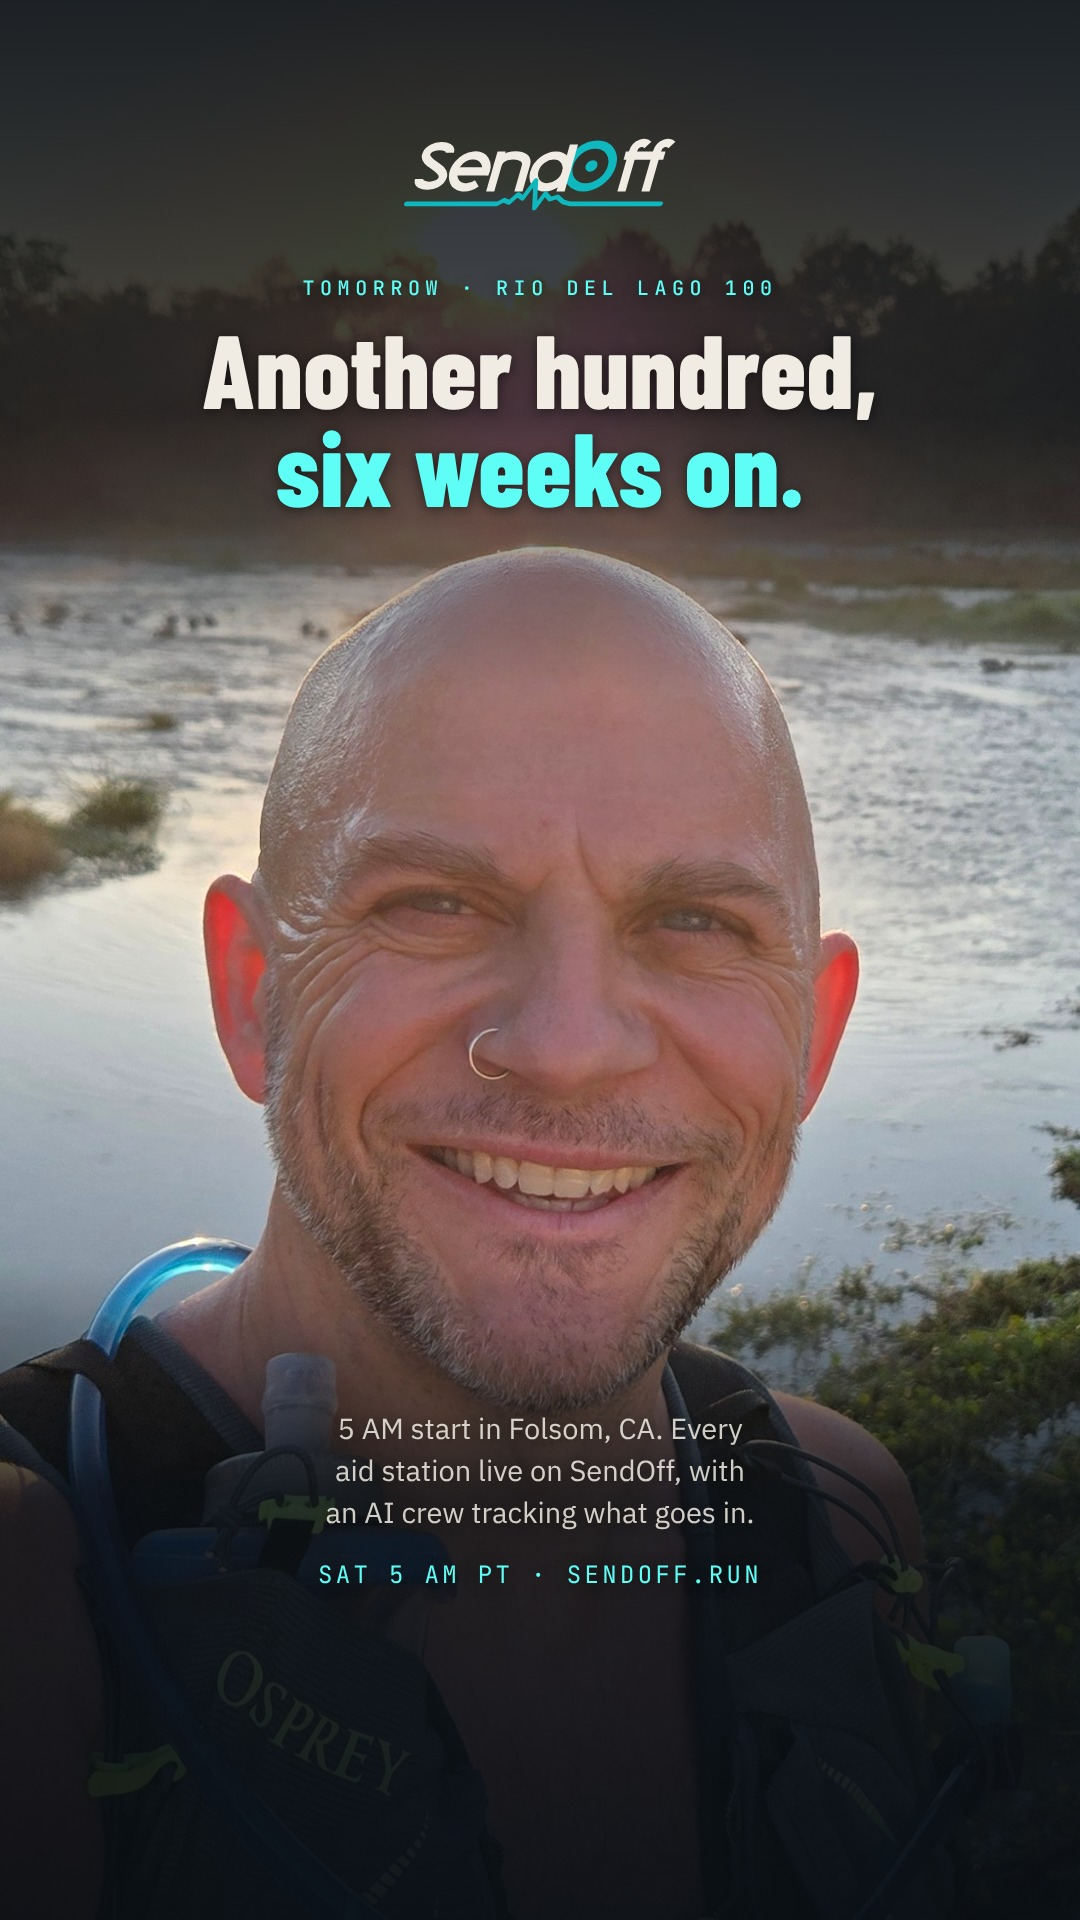
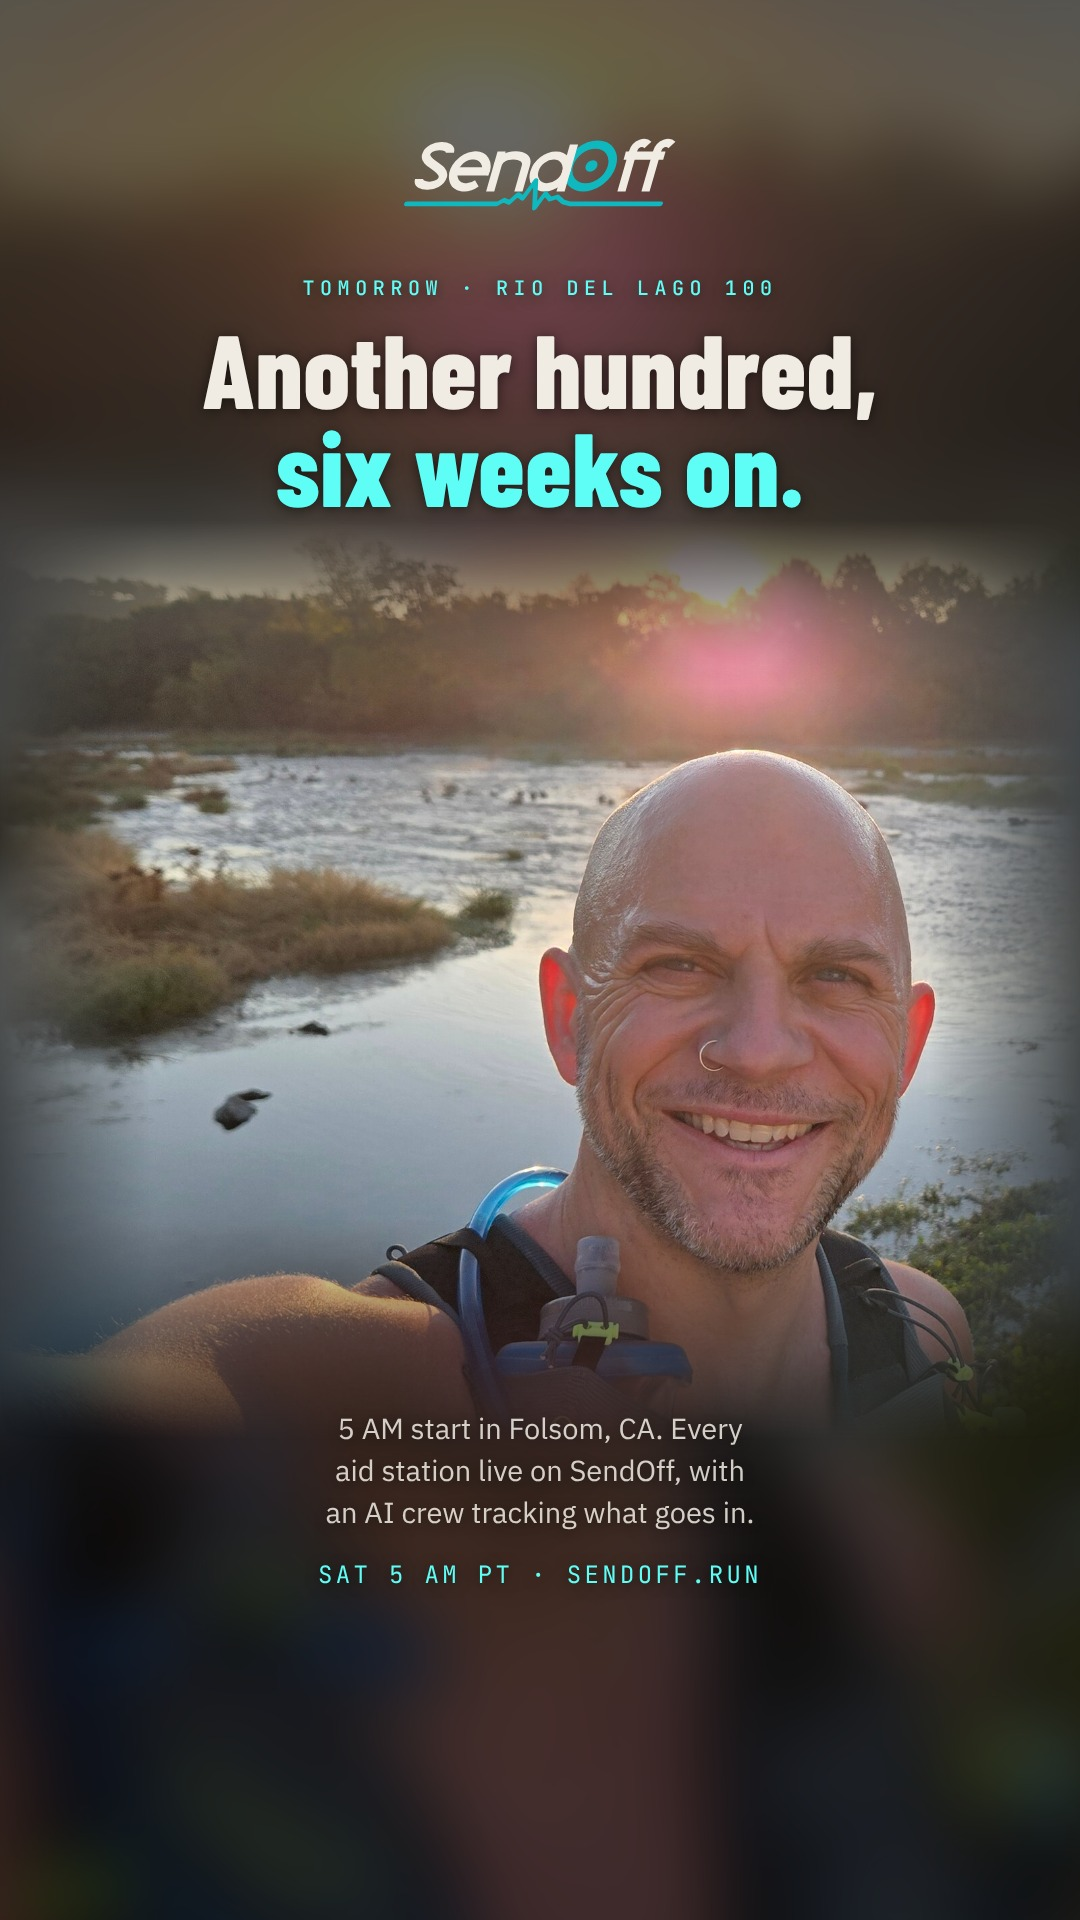
Rio del Lago story: the photo smaller, faded into a blurred copy of itself
The face filled the story. A wider cut of the selfie now sits in the
middle, feathered on every side into a blurred, darkened copy that fills
the rest, with the headline above and the details below.

Claude-Session: https://claude.ai/code/session_01EWRjYYN5ZDLhgR1pme87tD

diff --git a/brand/social/stories.html b/brand/social/stories.html
@@ -226,21 +226,30 @@
   <div class="phone"><img src="shots/ghost-train-live-map.png" alt="" style="object-fit:cover;object-position:50% 100%;aspect-ratio:1170/2400"></div>
 </section>
 
-<section class="slide story photo-story grad glow" id="rio-del-lago">
-  <!-- The whole story is the photo, cut 9:16 from the selfie. The face sits
-       low in it, so the headline goes up over the sky and the details over
-       the vest, clear of the reply bar. -->
-  <img class="bg" src="photos/rio-del-lago-runner-story.jpg" alt="" style="top:0;height:1920px;-webkit-mask-image:none;mask-image:none">
-  <div class="shade-top" style="position:absolute;left:0;right:0;top:0;height:36%;z-index:1;background:linear-gradient(180deg,rgba(10,15,20,.9) 0%,rgba(10,15,20,.74) 60%,rgba(10,15,20,0) 100%)"></div>
-  <div class="shade" style="height:34%;background:linear-gradient(180deg,rgba(10,15,20,0) 0%,rgba(10,15,20,.82) 35%,rgba(10,15,20,.95) 100%)"></div>
+<section class="slide story grad glow" id="rio-del-lago">
+  <!-- The selfie set smaller in the middle, a wider cut with the river round
+       it, feathered at every edge into a blurred, darkened copy of itself
+       that fills the rest. The headline sits above it and the details below,
+       clear of the reply bar. -->
+  <style>
+    #rio-del-lago .fill{position:absolute;inset:-80px;width:calc(100% + 160px);height:calc(100% + 160px);
+      object-fit:cover;filter:blur(36px) brightness(.4) saturate(1.1);z-index:0}
+    #rio-del-lago .pic{position:absolute;left:0;top:520px;width:1080px;height:920px;object-fit:cover;object-position:62% 42%;z-index:1;
+      -webkit-mask-image:linear-gradient(180deg,transparent 0,#000 18%,#000 76%,transparent 100%),linear-gradient(90deg,transparent 0,#000 14%,#000 86%,transparent 100%);
+      -webkit-mask-composite:source-in;
+      mask-image:linear-gradient(180deg,transparent 0,#000 18%,#000 76%,transparent 100%),linear-gradient(90deg,transparent 0,#000 14%,#000 86%,transparent 100%);
+      mask-composite:intersect}
+  </style>
+  <img class="fill" src="photos/rio-del-lago-runner-story.jpg" alt="">
+  <img class="pic" src="photos/rio-del-lago-runner-wide.jpg" alt="">
   <div class="top" style="position:relative;z-index:2;text-shadow:0 2px 14px rgba(0,0,0,.55)">
     <div class="wm"></div>
     <p class="kick" style="color:var(--beam);font-weight:500">Tomorrow · Rio del Lago 100</p>
     <h1 style="font-size:104px">Another hundred,<br><em style="color:var(--beam)">six weeks on.</em></h1>
   </div>
-  <div class="pbottom">
+  <div style="position:absolute;left:88px;right:88px;bottom:330px;z-index:2;text-shadow:0 2px 14px rgba(0,0,0,.6)">
     <p class="lead" style="margin-top:0;max-width:30ch;text-wrap:balance">5 AM start in Folsom, CA. Every aid station live on SendOff, with an AI crew tracking what goes in.</p>
-    <p class="when">Sat 5 AM PT · sendoff.run</p>
+    <p class="when" style="color:var(--beam)">Sat 5 AM PT · sendoff.run</p>
   </div>
 </section>
 
